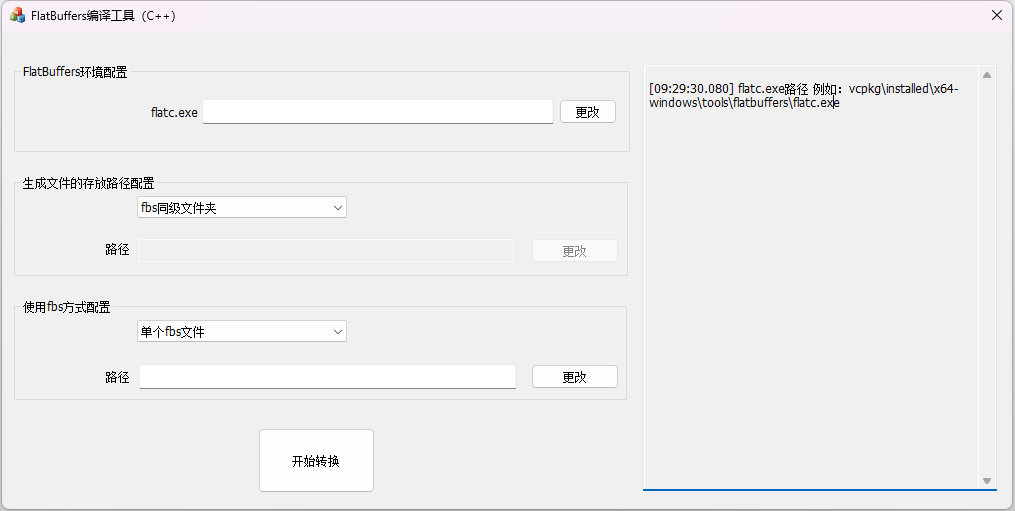
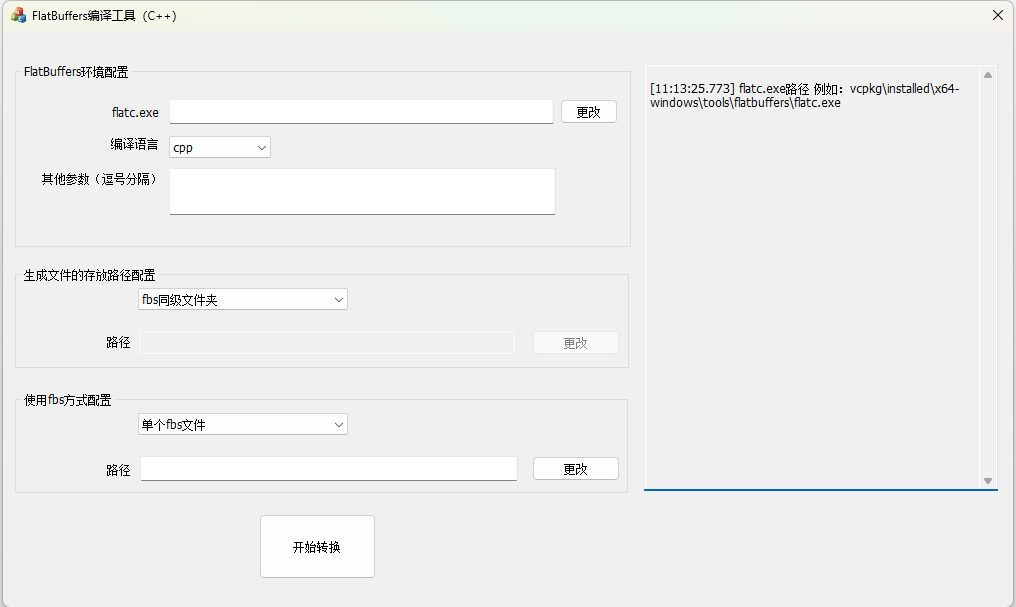
1、增加多编程语言支持。 2、增加flatc.exe版本号读取功能。

diff --git a/FBSCompileTool/FBSCompileToolDlg.cpp b/FBSCompileTool/FBSCompileToolDlg.cpp
@@ -31,6 +31,8 @@ void CFBSCompileToolDlg::DoDataExchange(CDataExchange* pDX)
 	DDX_Control(pDX, IDC_BTN_SAVE_PATH, _btnSavePath);
 	DDX_Control(pDX, IDC_BTN_FBS_PATH, _btnFBSPath);
 	DDX_Control(pDX, IDC_EDIT_RECV, _editRecv);
+	DDX_Control(pDX, IDC_EDIT_OTHER_PARAMS, _editOtherParams);
+	DDX_Control(pDX, IDC_COMBO_COMPILE_LANG, _comboCompileLang);
 }
 
 BEGIN_MESSAGE_MAP(CFBSCompileToolDlg, CDialogEx)
@@ -42,6 +44,7 @@ BEGIN_MESSAGE_MAP(CFBSCompileToolDlg, CDialogEx)
 	ON_CBN_SELCHANGE(IDC_COMBO_SELECT_TYPE, &CFBSCompileToolDlg::OnCbnSelchangeComboSelectType)
 	ON_BN_CLICKED(IDC_BTN_FBS_PATH, &CFBSCompileToolDlg::OnBtnFBSPath)
 	ON_BN_CLICKED(IDC_BTN_GENERATE, &CFBSCompileToolDlg::OnBtnGenerate)
+	ON_CBN_SELCHANGE(IDC_COMBO_COMPILE_LANG, &CFBSCompileToolDlg::OnCbnSelchangeComboCompileLang)
 END_MESSAGE_MAP()
 
 
@@ -76,7 +79,8 @@ void CFBSCompileToolDlg::LoadConfig()
 		{
 			_editFlatcPath.SetWindowText(flatcPath);
 		}
-		else
+
+		if (!LoadFlatcVersion(flatcPath))
 		{
 			// 删除配置
 			_config->SetString(CFGKEY_COMMON, CFG_FlatcPath, L"");
@@ -90,6 +94,30 @@ void CFBSCompileToolDlg::LoadConfig()
 		// 提示路径
 		AppendMsg(L"flatc.exe路径 例如：vcpkg\\installed\\x64-windows\\tools\\flatbuffers\\flatc.exe");
 	}
+
+	// 读取编译语言
+	int compileLang = _config->GetInt(CFGKEY_COMMON, CFG_FlatcLang);
+	_comboCompileLang.AddString(L"cpp");
+	_comboCompileLang.AddString(L"csharp");
+	_comboCompileLang.AddString(L"dart");
+	_comboCompileLang.AddString(L"go");
+	_comboCompileLang.AddString(L"java");
+	_comboCompileLang.AddString(L"jsonschema");
+	_comboCompileLang.AddString(L"kotlin");
+	_comboCompileLang.AddString(L"lobster");
+	_comboCompileLang.AddString(L"lua");
+	_comboCompileLang.AddString(L"php");
+	_comboCompileLang.AddString(L"python");
+	_comboCompileLang.AddString(L"rust");
+	_comboCompileLang.AddString(L"swift");
+	_comboCompileLang.AddString(L"ts");
+	_comboCompileLang.SetCurSel(compileLang);
+	OnCbnSelchangeComboCompileLang();
+
+	// 读取其他参数
+	CString otherParams;
+	CString otherParamsConfig = _config->GetString(CFGKEY_COMMON, CFG_OtherParams);
+	_editOtherParams.SetWindowText(otherParamsConfig);
 
 	// 读取保存路径配置
 	_btnSavePath.EnableWindow(FALSE);
@@ -214,8 +242,12 @@ bool CFBSCompileToolDlg::RunFlatc(const CString& flatcPath, CString param)
 			BOOL bSuccess = ReadFile(hRead, chBuf, 1024, &dwRead, NULL); // 这里是读管道，即便已经没有数据，仍然会等待接收数据，所以才需要PeekNamePipe
 			if (bSuccess && dwRead != 0)
 			{
-				// 读取到错误消息
-				ret = false;
+				// 检测是否有错误消息
+				CString strRet(chBuf);
+				if (strRet.Find(L"error") != -1)
+				{
+					ret = false;
+				}
 				AppendMsg(CString(chBuf));
 			}
 		}
@@ -245,6 +277,9 @@ void CFBSCompileToolDlg::OnBtnFlatcPath()
 	{
 		CString flatcPath = openFileDlg.GetPathName();
 		_editFlatcPath.SetWindowText(flatcPath);
+
+		// 获取flatc版本
+		LoadFlatcVersion(flatcPath);
 
 		// 保存配置
 		_config->SetString(CFGKEY_COMMON, CFG_FlatcPath, flatcPath);
@@ -350,6 +385,28 @@ void CFBSCompileToolDlg::OnBtnGenerate()
 	}
 	_config->SetString(CFGKEY_COMMON, CFG_FlatcPath, flatcPath);
 
+	// 编译语言
+	CString strCompileLang;
+	_comboCompileLang.GetWindowText(strCompileLang);
+	CString compileLang = L"--" + strCompileLang;
+	_config->SetInt(CFGKEY_COMMON, CFG_FlatcLang, _comboCompileLang.GetCurSel());
+
+	// 读取其他参数
+	CString otherParams;
+	CString otherParamsConfig;
+	_editOtherParams.GetWindowText(otherParamsConfig);
+	if (!otherParamsConfig.IsEmpty())
+	{
+		vector<CString> vecParams;
+		StrSplit(otherParamsConfig, L",", vecParams);
+		for (auto& param : vecParams)
+		{
+			otherParams += param;
+			otherParams += " "; // 空格间隔
+		}
+	}
+	_config->SetString(CFGKEY_COMMON, CFG_OtherParams, otherParamsConfig);
+
 	// 缓存所有fbs文件路径
 	CString fbsPath;
 	vector<CString> fbsFiles;
@@ -432,7 +489,7 @@ void CFBSCompileToolDlg::OnBtnGenerate()
 	for each (const auto & filePath in fbsFiles)
 	{
 		// 生成FlatBuffers类文件
-		param.Format(L"-o \"%s\" -c \"%s\"", savePath, filePath);
+		param.Format(L"-o \"%s\" %s %s \"%s\"", savePath, otherParams, compileLang, filePath);
 
 		if (!RunFlatc(flatcPath, param))
 		{
@@ -488,3 +545,80 @@ LRESULT CFBSCompileToolDlg::OnFunction(WPARAM wParam, LPARAM lParam)
 	return TRUE;
 }
 
+bool CFBSCompileToolDlg::LoadFlatcVersion(const CString& flatcPath)
+{
+	PROCESS_INFORMATION ProceInfo;
+	SECURITY_ATTRIBUTES sa;
+	ZeroMemory(&sa, sizeof(sa));
+	sa.nLength = sizeof(sa);
+	sa.bInheritHandle = TRUE;
+	HANDLE hRead = NULL;
+	HANDLE hWrite = NULL;
+	if (!CreatePipe(&hRead, &hWrite, &sa, 0))
+	{
+		return false;
+	}
+
+	STARTUPINFO StartInfo;
+	ZeroMemory(&StartInfo, sizeof(StartInfo));
+	StartInfo.cb = sizeof(StartInfo);
+	StartInfo.wShowWindow = SW_HIDE;
+	//使用指定的句柄作为标准输入输出的文件句柄,使用指定的显示方式
+	StartInfo.dwFlags = STARTF_USESTDHANDLES | STARTF_USESHOWWINDOW;
+	StartInfo.hStdError = hWrite;
+	StartInfo.hStdInput = GetStdHandle(STD_INPUT_HANDLE);
+	StartInfo.hStdOutput = hWrite;
+
+	bool ret = true;
+	CString param;
+	param.Format(L"%s --version", flatcPath);
+	if (CreateProcess(nullptr, param.GetBuffer(), NULL, NULL, TRUE, CREATE_NEW_CONSOLE, NULL, NULL, &StartInfo, &ProceInfo))
+	{
+		WaitForSingleObject(ProceInfo.hProcess, /*INFINITE*/3000); // 等待3秒
+
+		CHAR chBuf[1024] = { 0 };
+		DWORD dwRead = 0;
+		DWORD dwAvail = 0;
+		if (PeekNamedPipe(hRead, NULL, NULL, &dwRead, &dwAvail, NULL) && dwAvail > 0)//PeekNamePipe用来预览一个管道中的数据，用来判断管道中是否为空
+		{
+			BOOL bSuccess = ReadFile(hRead, chBuf, 1024, &dwRead, NULL); // 这里是读管道，即便已经没有数据，仍然会等待接收数据，所以才需要PeekNamePipe
+			if (bSuccess && dwRead != 0)
+			{
+				// 检测是否有错误消息
+				CString strRet(chBuf);
+				if (strRet.Find(L"error") != -1)
+				{
+					ret = false;
+					strRet.Format(L"读取flatc版本号错误：%s", CString(chBuf));
+					AppendMsg(strRet);
+				}
+				else
+				{
+					AppendMsg(CString(chBuf));
+				}
+			}
+		}
+
+		CloseHandle(ProceInfo.hThread);
+		CloseHandle(ProceInfo.hProcess);
+	}
+	else
+	{
+		ret = false;
+	}
+
+	CloseHandle(hRead);
+	CloseHandle(hWrite);
+
+	return ret;
+}
+
+void CFBSCompileToolDlg::OnCbnSelchangeComboCompileLang()
+{
+	CString strCompileLang;
+	_comboCompileLang.GetWindowText(strCompileLang);
+	if (strCompileLang == L"lua")
+	{
+		AppendMsg(L"注意：生成的lua文件存放于本软件所在文件夹下！");
+	}
+}

diff --git a/FBSCompileTool/resource.h b/FBSCompileTool/resource.h
@@ -2,22 +2,22 @@
 // Microsoft Visual C++ 生成的包含文件。
 // 供 FBSCompileTool.rc 使用
 //
-#define IDD_FBSCOMPILETOOL_DIALOG     102
+#define IDD_FBSCOMPILETOOL_DIALOG       102
 #define IDR_MAINFRAME                   128
-#define IDC_BTN_FLATC_PATH             1000
-#define IDC_EDIT_FLATC_PATH            1001
+#define IDC_BTN_FLATC_PATH              1000
+#define IDC_EDIT_FLATC_PATH             1001
 #define IDC_BTN_PLUGIN_PATH             1002
 #define IDC_EDIT_PLUGIN_PATH            1003
 #define IDC_BTN_GENERATE                1004
-#define IDC_EDIT_FBS_PATH             1005
+#define IDC_EDIT_FBS_PATH               1005
 #define IDC_COMBO_SELECT_TYPE           1006
 #define IDC_COMBO_SAVE_TYPE             1007
 #define IDC_EDIT_SAVE_PATH              1008
 #define IDC_BTN_SAVE_PATH               1009
-#define IDC_BTN_FBS_PATH              1010
+#define IDC_BTN_FBS_PATH                1010
 #define IDC_BTN_CLEAR_PLUGIN_PATH       1011
 #define IDC_COMBO_SAVE_TYPE2            1012
-#define IDC_COMBO_FLATC_LANG           1012
+#define IDC_COMBO_FLATC_LANG            1012
 #define IDC_EDIT1                       1013
 #define IDC_EDIT_RECV                   1013
 #define IDC_BTN_PLUGIN_PATH2            1014
@@ -25,6 +25,9 @@
 #define IDC_EDIT_IMPORT_PATH            1015
 #define IDC_CHECK1                      1016
 #define IDC_CHECK_GRPC                  1016
+#define IDC_EDIT_OTHER_PARAMS           1017
+#define IDC_COMBO2                      1020
+#define IDC_COMBO_COMPILE_LANG          1020
 
 // Next default values for new objects
 // 
@@ -32,7 +35,7 @@
 #ifndef APSTUDIO_READONLY_SYMBOLS
 #define _APS_NEXT_RESOURCE_VALUE        131
 #define _APS_NEXT_COMMAND_VALUE         32771
-#define _APS_NEXT_CONTROL_VALUE         1017
+#define _APS_NEXT_CONTROL_VALUE         1021
 #define _APS_NEXT_SYMED_VALUE           101
 #endif
 #endif

diff --git a/FBSCompileTool/FBSCompileToolDlg.h b/FBSCompileTool/FBSCompileToolDlg.h
@@ -32,6 +32,8 @@ protected:
 	CButton _btnSavePath;
 	CButton _btnFBSPath;
 	CEdit _editRecv;
+	CEdit _editOtherParams;
+	CComboBox _comboCompileLang;
 
 	virtual BOOL OnInitDialog();
 	afx_msg HCURSOR OnQueryDragIcon();
@@ -44,6 +46,7 @@ protected:
 	bool RunFlatc(const CString& flatcPath, CString param);
 	void AppendMsg(const WCHAR* msg);
 	LRESULT OnFunction(WPARAM wParam, LPARAM lParam);
+	bool LoadFlatcVersion(const CString& flatcPath);
 
 	afx_msg void OnBtnFlatcPath();
 	afx_msg void OnBtnSavePath();
@@ -51,4 +54,5 @@ protected:
 	afx_msg void OnCbnSelchangeComboSelectType();
 	afx_msg void OnBtnFBSPath();
 	afx_msg void OnBtnGenerate();
+	afx_msg void OnCbnSelchangeComboCompileLang();
 };

diff --git a/FBSCompileTool/Common/Common.cpp b/FBSCompileTool/Common/Common.cpp
@@ -86,3 +86,25 @@ double CStr2Double(const CString& str)
 
 	return num;
 }
+
+void StrSplit(CString str, const CString& delim, vector<CString>& vec)
+{
+	if (str.IsEmpty() || delim.IsEmpty())
+	{
+		return;
+	}
+	vec.clear();
+
+	CString	strNode = L"";
+	WCHAR* pTemp = NULL;
+	WCHAR* p = NULL;
+
+	pTemp = wcstok_s(str.GetBuffer(), delim, &p);
+	str.ReleaseBuffer();
+	while (pTemp != NULL)
+	{
+		strNode = pTemp;
+		vec.emplace_back(strNode);
+		pTemp = wcstok_s(NULL, delim, &p);
+	}
+}

diff --git a/FBSCompileTool/Common/ConfigFile.h b/FBSCompileTool/Common/ConfigFile.h
@@ -12,6 +12,7 @@
 #define CFG_SelectType	L"SelectType"
 #define CFG_FBSFilesPath	L"FBSFilesPath"
 #define CFG_FlatcLang	L"FlatcLang"
+#define CFG_OtherParams L"OtherParams"
 
 class CConfigFile
 {

diff --git a/README.md b/README.md
@@ -2,7 +2,6 @@
 FlatBuffers界面编译辅助工具。
 # 概述
 本软件是flatc.exe的界面辅助工具。调用flatc.exe，将fbs文件编译为对应编程语言。
-由于仅支持生成C++代码。
 ![](https://raw.githubusercontent.com/tilongzs/FBSCompileTool/main/doc/screenshot.png)
 
 # 编译环境
@@ -14,6 +13,8 @@ FlatBuffers界面编译辅助工具。
 
 ###  FlatBuffers环境配置
 1. 输入protoc.exe的路径。
+2. 选择编程语言。
+3. 【可选】输入额外的参数。
 
 ###  生成文件的存放路径配置
 
